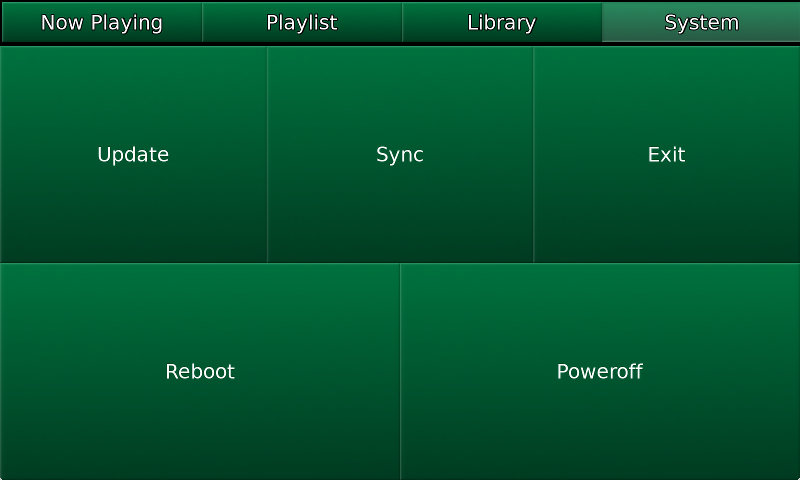
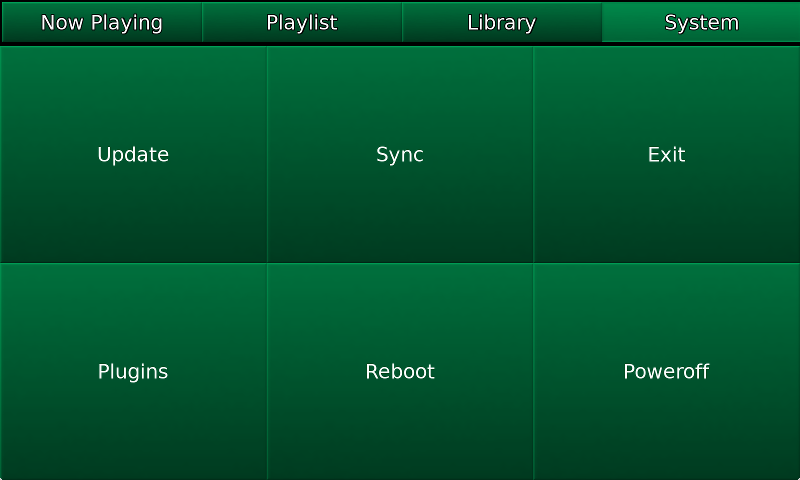
updating changelog and docs, bumping version

diff --git a/kmpc/version.py b/kmpc/version.py
@@ -1,3 +1,3 @@
-VERSION = (0, 6, 5, 1)
+VERSION = (0, 6, 6)
 VERSION_STR = ".".join(map(str, VERSION))
 VERSION_SHORT = ".".join(map(str,[VERSION[0],VERSION[1]]))

diff --git a/docs/plugins.rst b/docs/plugins.rst
@@ -1,0 +1,80 @@
+.. _plugins:
+
+#######
+Plugins
+#######
+
+Plugins are accessed via the System Tab:
+
+.. image:: images/system.png
+
+Upon clicking the Plugins button, you are presented with a list of all
+available plugins in the ``~/.kmpc/plugins`` folder:
+
+.. image:: images/plugins.png
+
+Pictured are some plugins that are available at
+`https://github.com/eratosthene/kmpc-plugins
+<https://github.com/eratosthene/kmpc-plugins>`_.
+
+**********************
+Plugin Folder Contents
+**********************
+
+Inside the ``~/.kmpc/plugins`` folder, there should be one or more folders
+named for each plugin. Each plugin folder must contain at least two files named
+``plugin.py`` and ``plugin.kv``::
+
+  plugins
+  ├── kivypiewifi
+  │   ├── plugin.kv
+  │   └── plugin.py
+  └── osxwifi
+      ├── plugin.kv
+      └── plugin.py
+
+plugin.py
+=========
+
+This file contains the logic for a plugin, written in python. You can import
+whatever you want, and it will have access to any global variables in the kmpc
+application, including App. The only requirement is to have at least one class
+named <pluginname>PluginContent, that is a subclass of some Kivy widget. So,
+for example, the *kivypiewifi* plugin has the following in it:
+
+.. code-block:: python
+
+  class kivypiewifiPluginContent(BoxLayout):
+
+Do whatever needs to be done, just make sure you are doing things in a
+non-blocking manner. I prefer to use the twisted reactor and its associated
+methods for this.
+
+plugin.kv
+=========
+
+This file contains the presentation for a plugin, written in kv. It should
+should contain at least the default kv declaration, an import for the plugin's
+class, and a definition of that class. For example, the *kivypiewifi* plugin
+has the following in it:
+
+.. code-block:: python
+
+  #:kivy 1.10.0
+  #:import kivypiewifiPluginContent plugin.kivypiewifiPluginContent
+
+  ... (skipping a few lines)
+
+  <kivypiewifiPluginContent>:
+    (here iss where the kv definition for your plugin goes)
+
+*******
+Running
+*******
+
+When you click on a plugin in kmpc to run it, the following things happen:
+
+#. The *Choose Plugin to Run* popup is closed.
+#. A new full screen popup is opened, with a Close button at the bottom.
+#. The plugin's PluginContent class is instantiated, and placed inside the
+   popup.

diff --git a/CHANGELOG.rst b/CHANGELOG.rst
@@ -4,6 +4,14 @@
 kmpc Change Log
 ###############
 
+******************
+0.6.5 - 2018-02-??
+******************
+
+- Plugins! You can now build your own plugins and place them in ~/.kmpc/plugins
+  for access via the System tab. Some examples at
+  `https://github.com/eratosthene/kmpc-plugins <https://github.com/eratosthene/kmpc-plugins>`_.
+
 ********************
 0.6.5.1 - 2018-02-04
 ********************

diff --git a/docs/usingkmpc.rst b/docs/usingkmpc.rst
@@ -274,6 +274,9 @@ following section.
 
 Exit, Reboot, and Poweroff are pretty self-explanatory.
 
+The Plugins button launches plugins located in ``~/.kmpc/plugins``. For more
+information, see :ref:`the plugin documentation<plugins>`
+
 *************************
 Syncing with the synchost
 *************************

diff --git a/docs/index.rst b/docs/index.rst
@@ -16,5 +16,6 @@ Welcome to kmpc's documentation!
    usingkmpc
    usingkmpcmanager
    kivypie
+   plugins
    changelog
 
